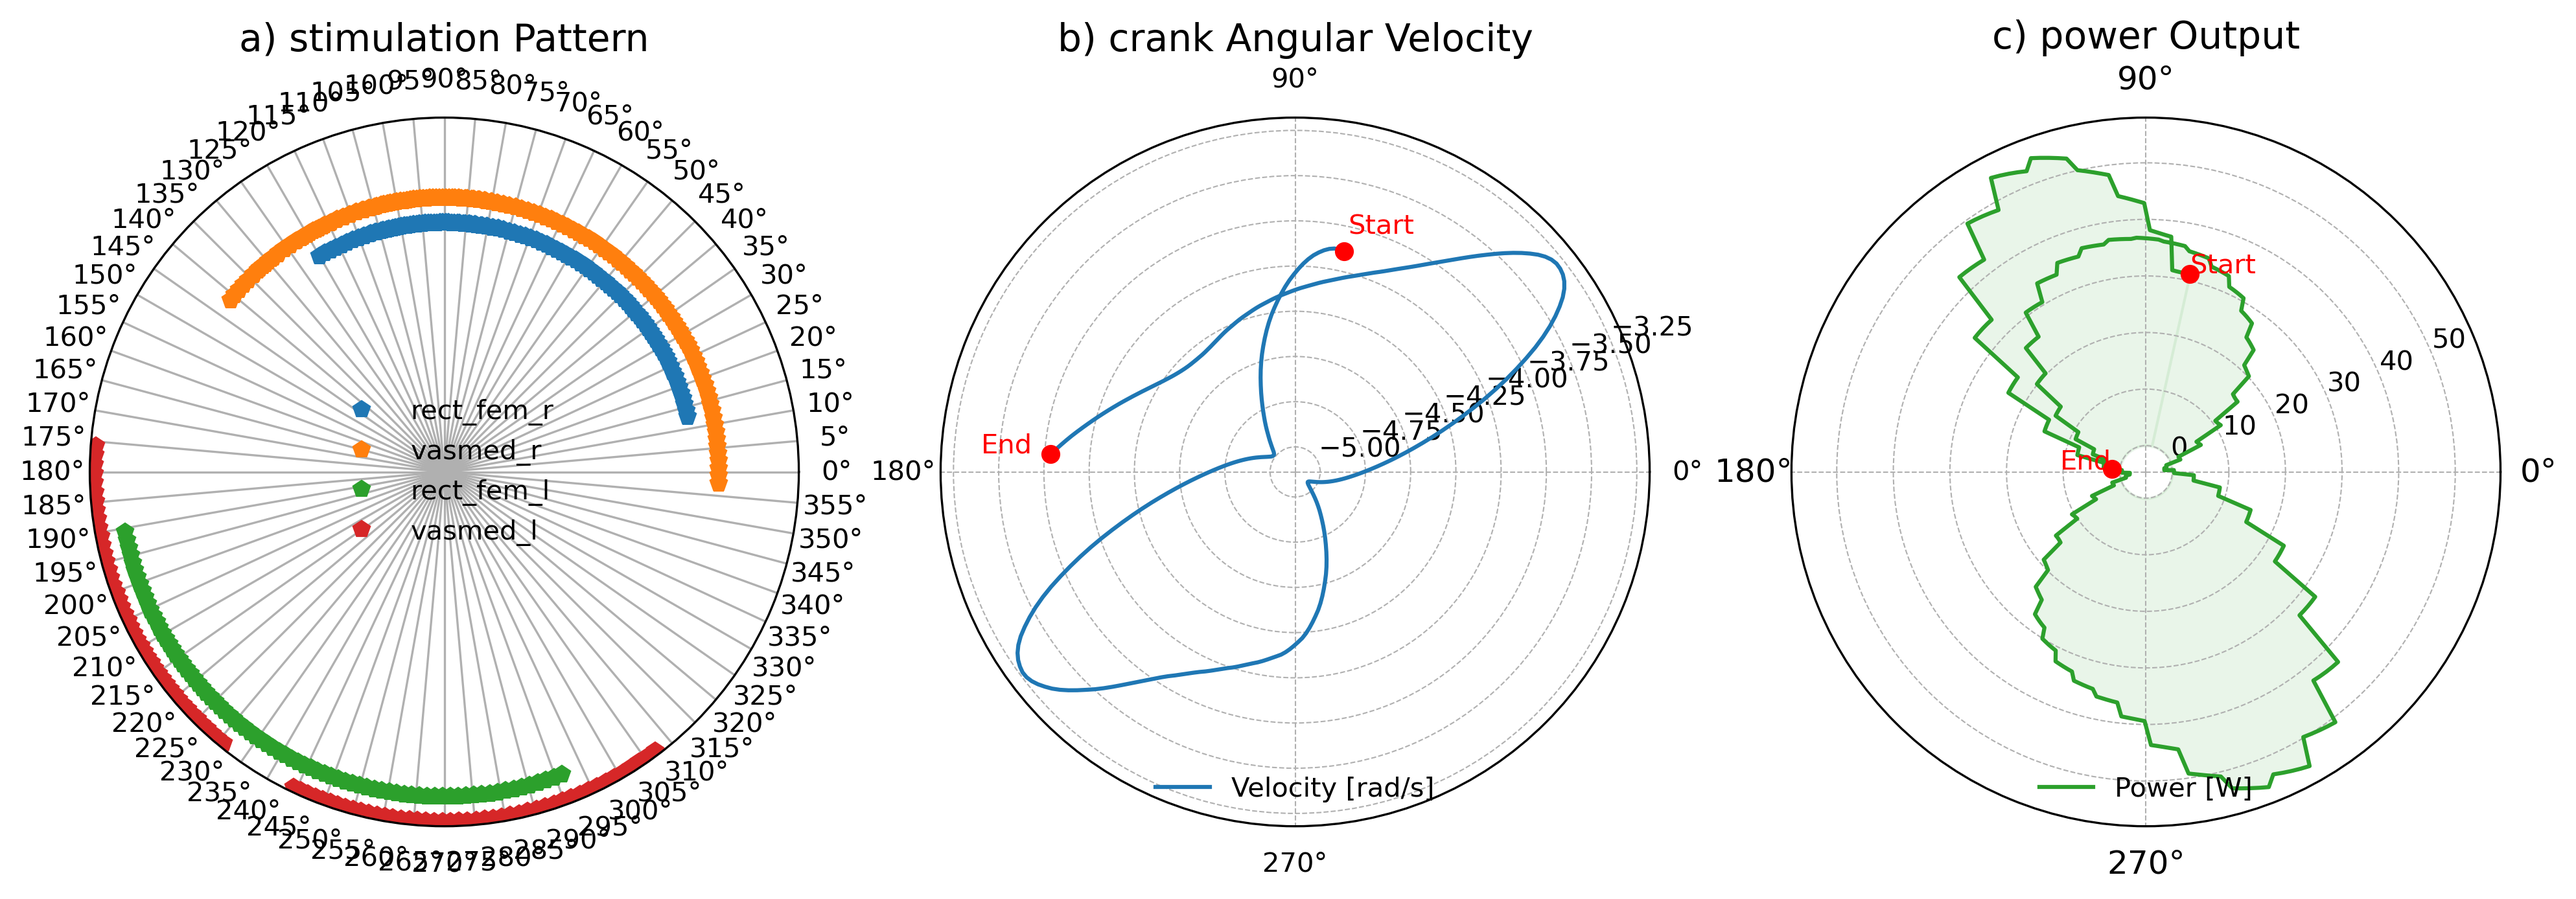
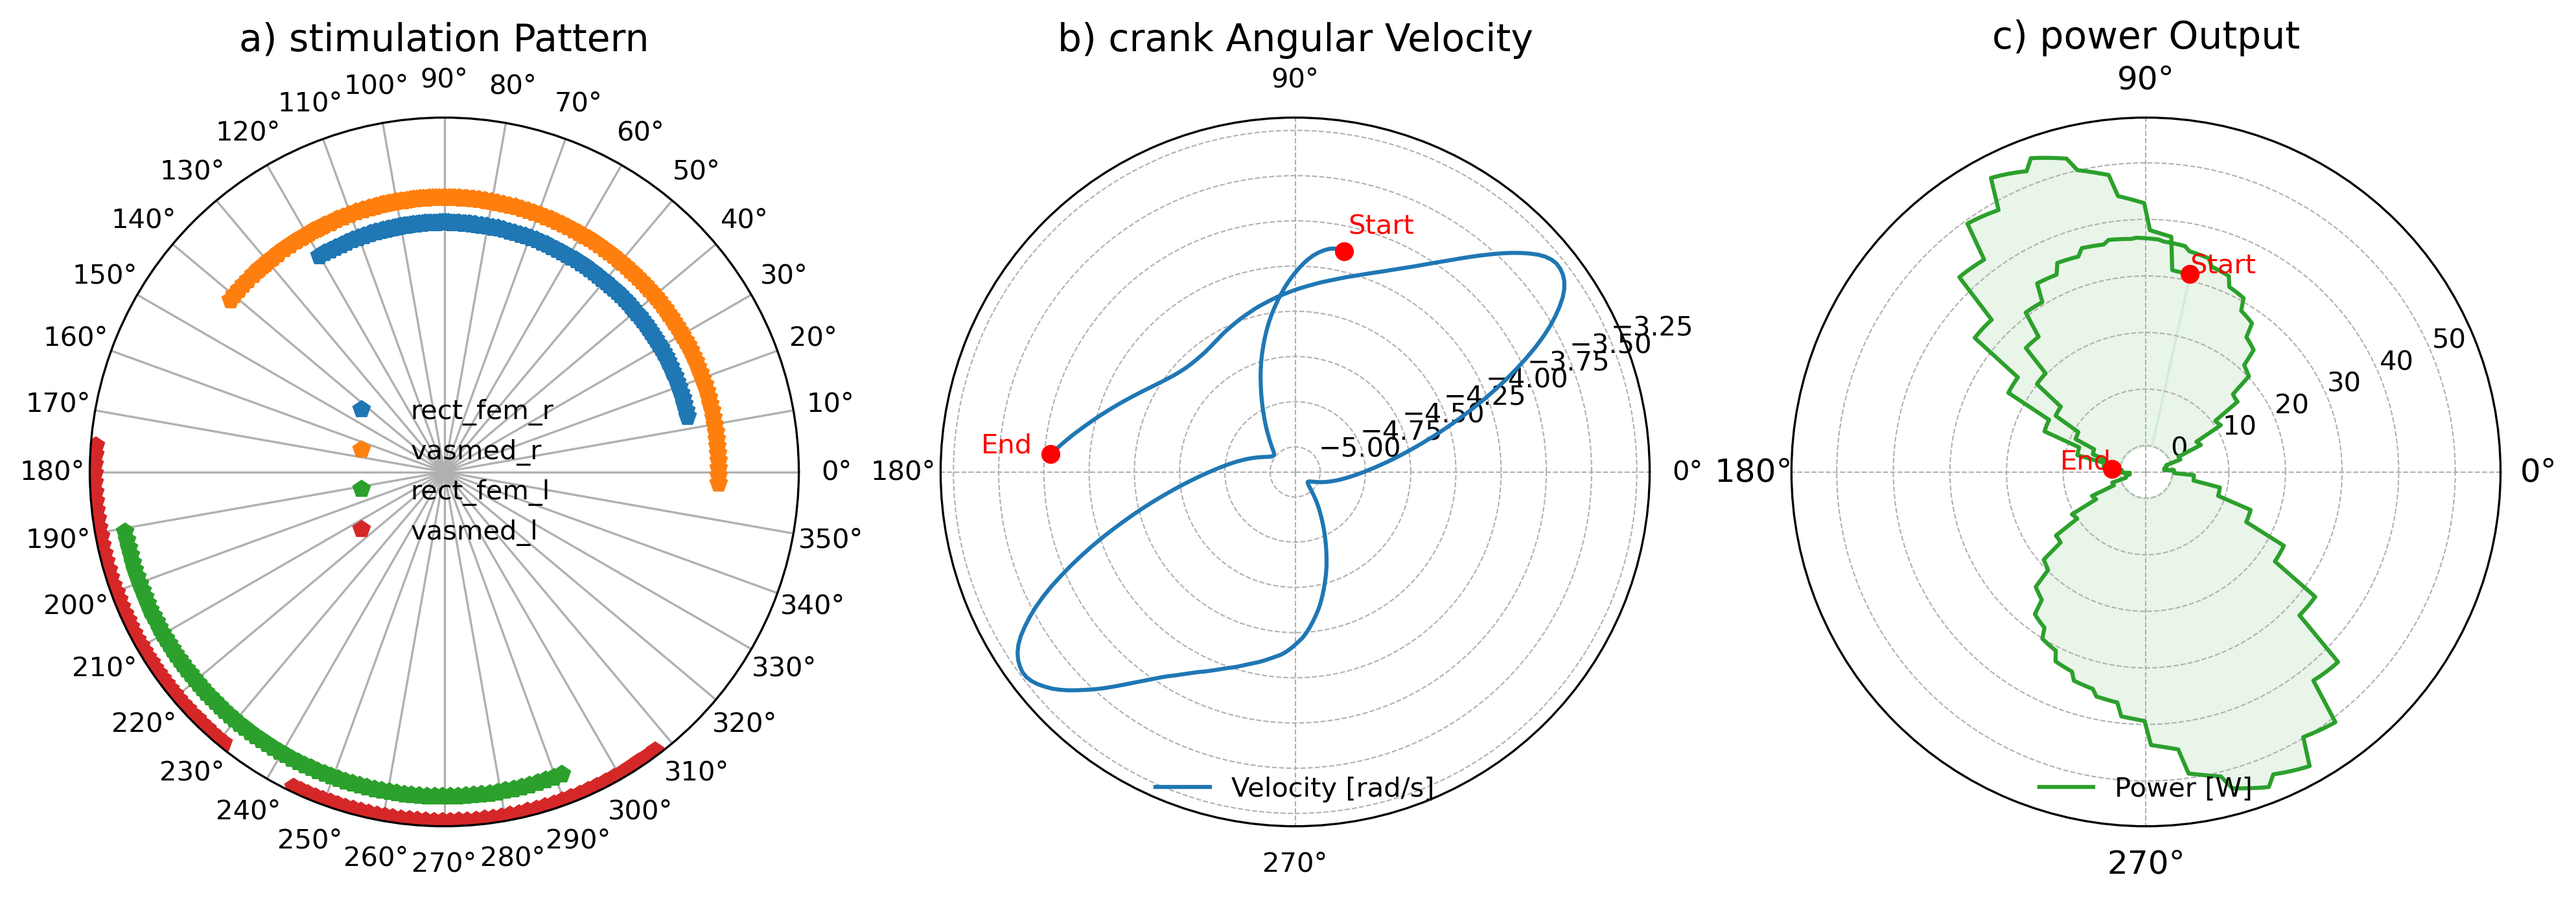
retrieving images and obtaining the stimulation pattern for 4 muscles. Graph ajusted

diff --git a/sandbox/FES_leg_pedalling_calculate_power.py b/sandbox/FES_leg_pedalling_calculate_power.py
@@ -158,7 +158,7 @@ def plot_power(dump_path, model, file, friction_coef_mu,friction_coef_b, set_gra
                          np.full_like(activated_points, radial_offsets[idx]),
                          'p',
                          label=f"{muscle_names[idx]}")
-    axes[0].set_xticks(np.linspace(0, 2 * np.pi, 72, endpoint=False))
+    axes[0].set_xticks(np.linspace(0, 2 * np.pi, 36, endpoint=False))
     axes[0].set_title("a) stimulation Pattern", fontsize=14)
     # axes[0].set_xticklabels(['0°', '90°', '180°', '270°'])
     axes[0].set_yticks([])  # Remove radial ticks
@@ -216,6 +216,57 @@ def plot_power(dump_path, model, file, friction_coef_mu,friction_coef_b, set_gra
     print(f'Mean power: {mean_pwr:.2f} ± {std_pwr:.2f} W')
 
     plt.savefig('Param_iden_cycling_Brazil/opt_sol_results/images/stim_pattern.png', format='png', dpi=300, bbox_inches='tight')
+    plt.show()
+
+    # --------------------------------- Second Figure ---------------------------------
+    fig = plt.figure(figsize=(16, 6))
+    ax = fig.add_subplot(111, polar=True)
+
+    # ------------------------------------ plot 1 ------------------------------------
+    q_size = len(q_data_aux[0])
+    pulse_width = np.array(pw_sol)
+    node_count = pulse_width.shape[0]
+    repeat_factor = q_size // node_count
+
+    pw_squeezed = np.squeeze(pulse_width, axis=2)
+    pw_stretched = np.repeat(pw_squeezed, repeat_factor, axis=0)
+    pw_stretched = pw_stretched[:q_size, :]
+
+    radial_offsets = np.linspace(10.5, 20.5, 8)
+
+    q_radians = q_data_aux[0] % (2 * np.pi) * -1
+
+    for idx in range(n_mus):
+        # Dados estendidos
+        pw_data_stretched = pw_stretched[:, idx]
+
+        # Offset
+        off_set = pd0_pdt_data[muscle_names[idx]][1] + 10e-6
+
+        # Índices ativados
+        activated_points = np.where(pw_data_stretched[:-5] > off_set)[0]
+
+        if len(activated_points) > 0:
+            ax.plot(q_radians[activated_points],
+                    np.full_like(activated_points, radial_offsets[idx]),
+                    'p',
+                    label=f"{muscle_names[idx]}")
+
+    # Ajustes do gráfico
+    ax.set_xticks(np.linspace(0, 2 * np.pi, 36, endpoint=False))
+    ax.set_title("b) Stimulation Pattern: 4 muscles", fontsize=14)
+    ax.set_yticks([])
+    ax.set_yticklabels([])
+
+    fig.legend(loc='lower center', fontsize='medium', frameon=False, ncol=6)
+
+    plt.savefig(
+        'Param_iden_cycling_Brazil/opt_sol_results/images/stim_pattern_only.png',
+        format='png',
+        dpi=300,
+        bbox_inches='tight'
+    )
+
     plt.show()
 
 
